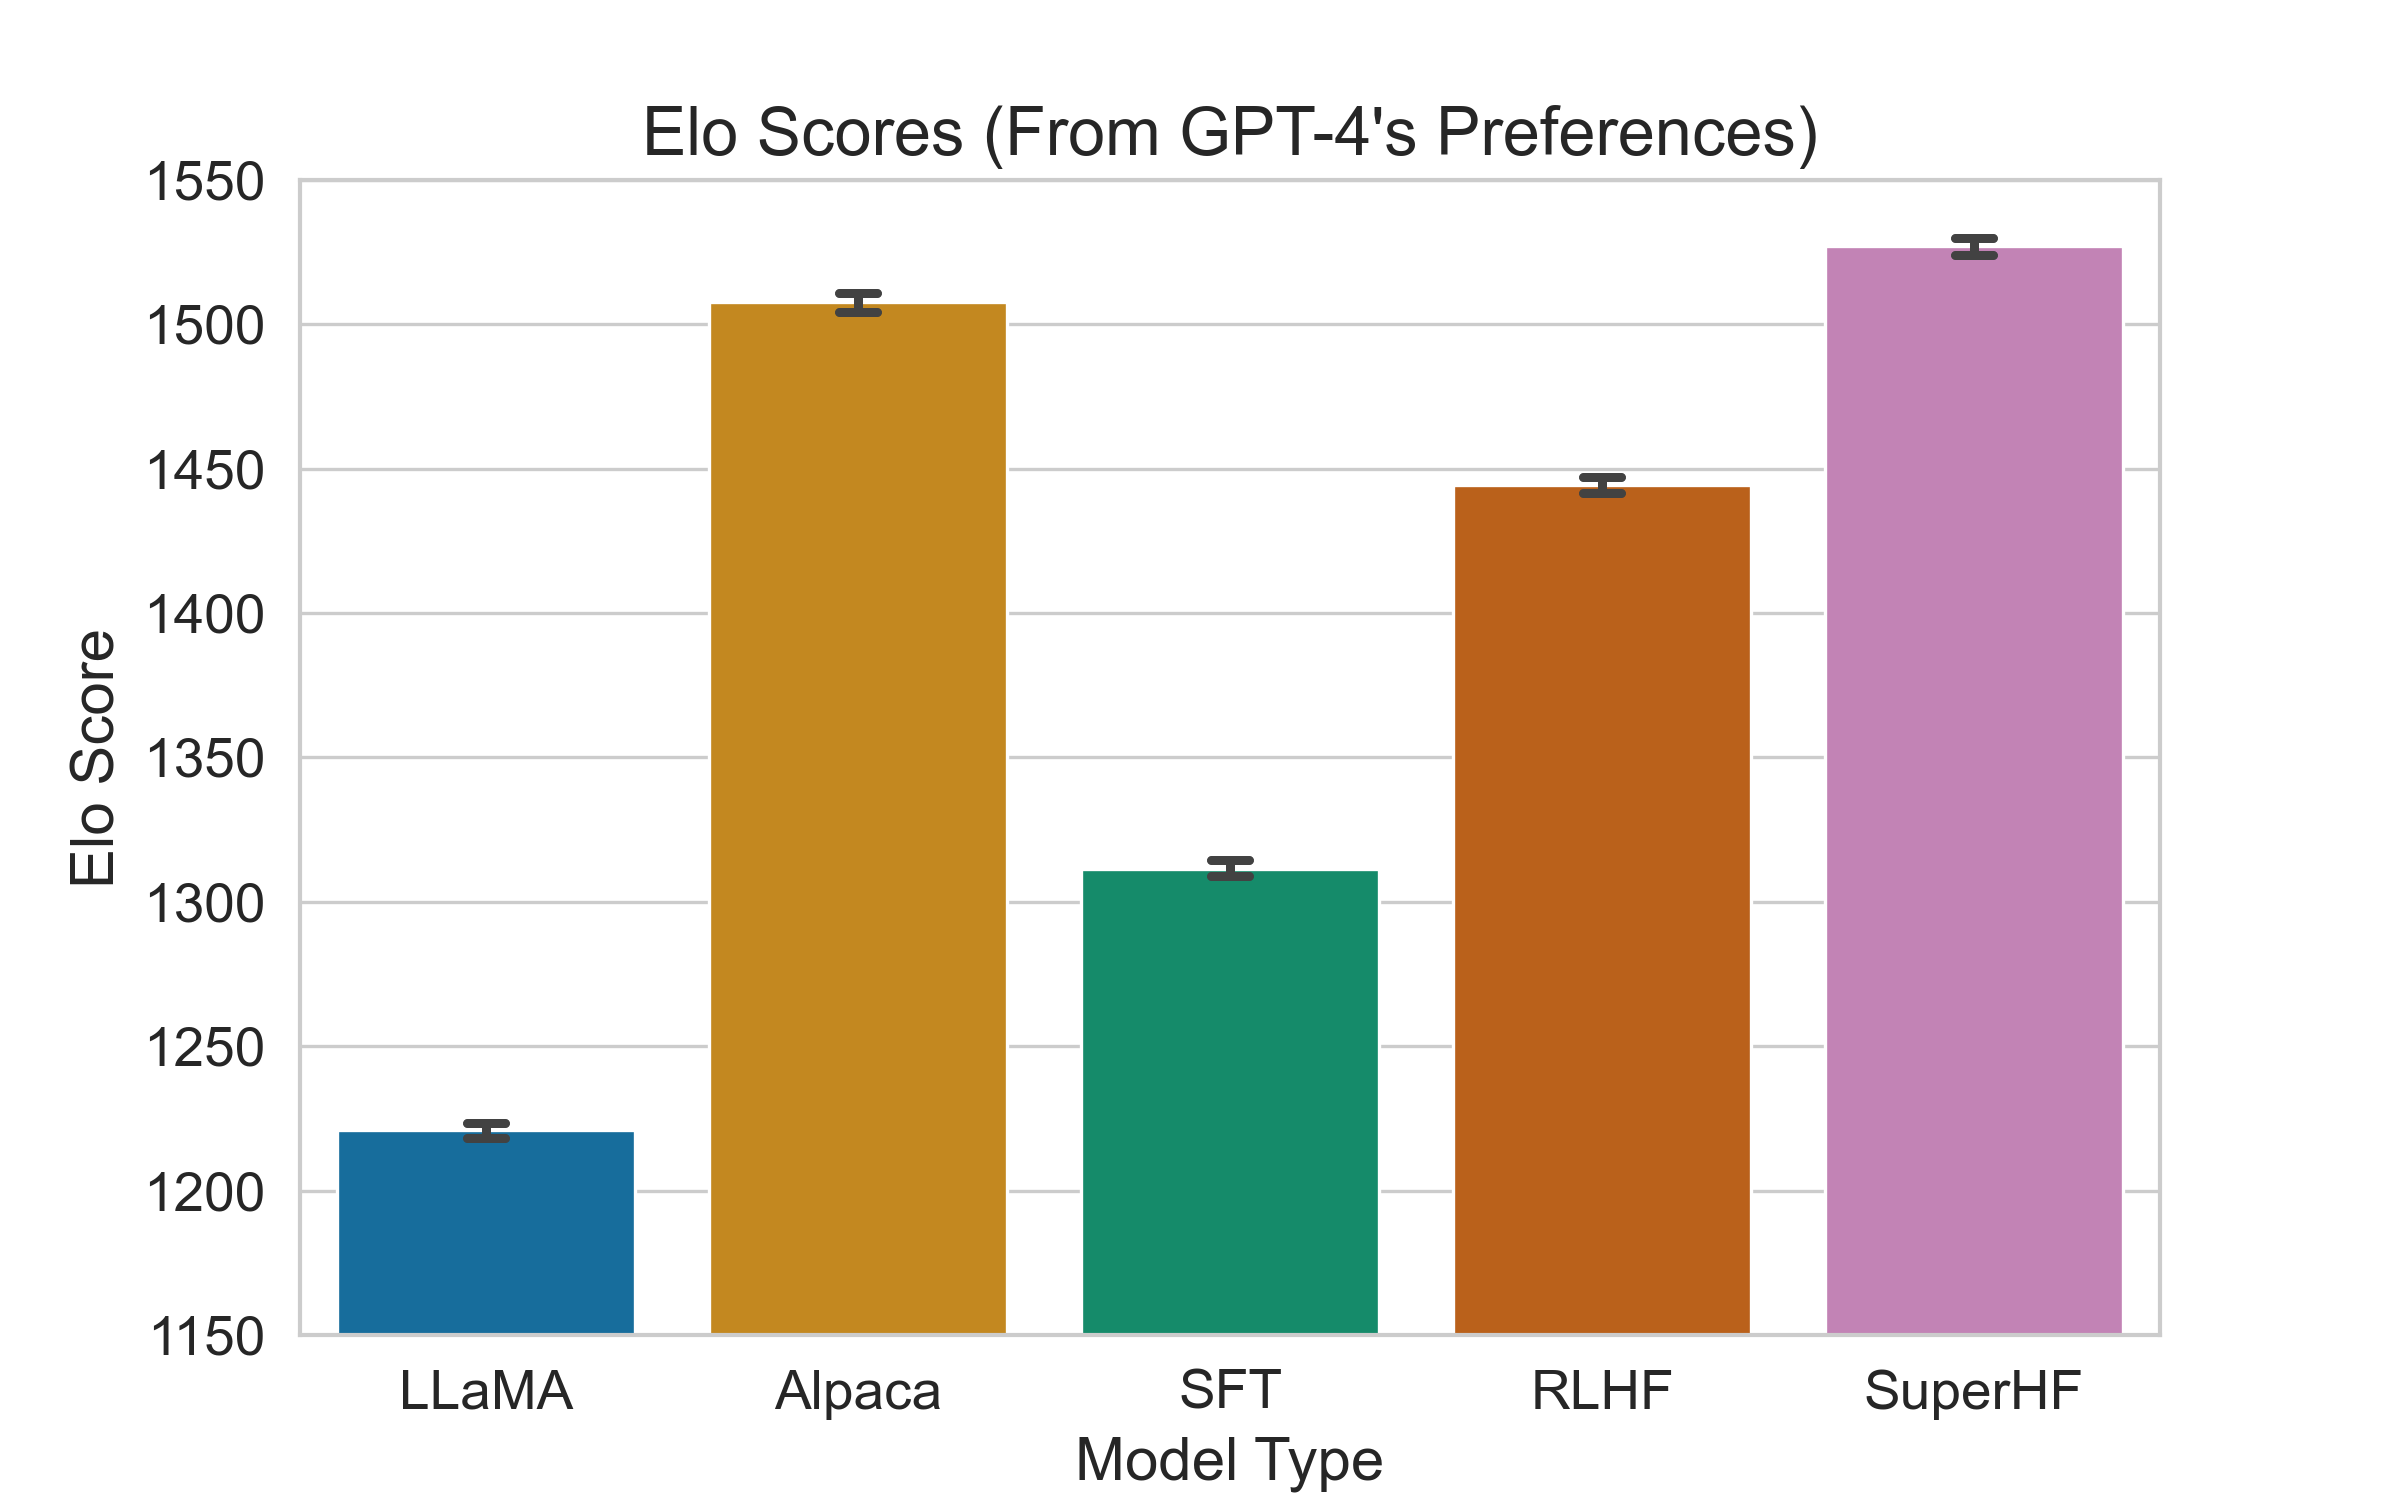
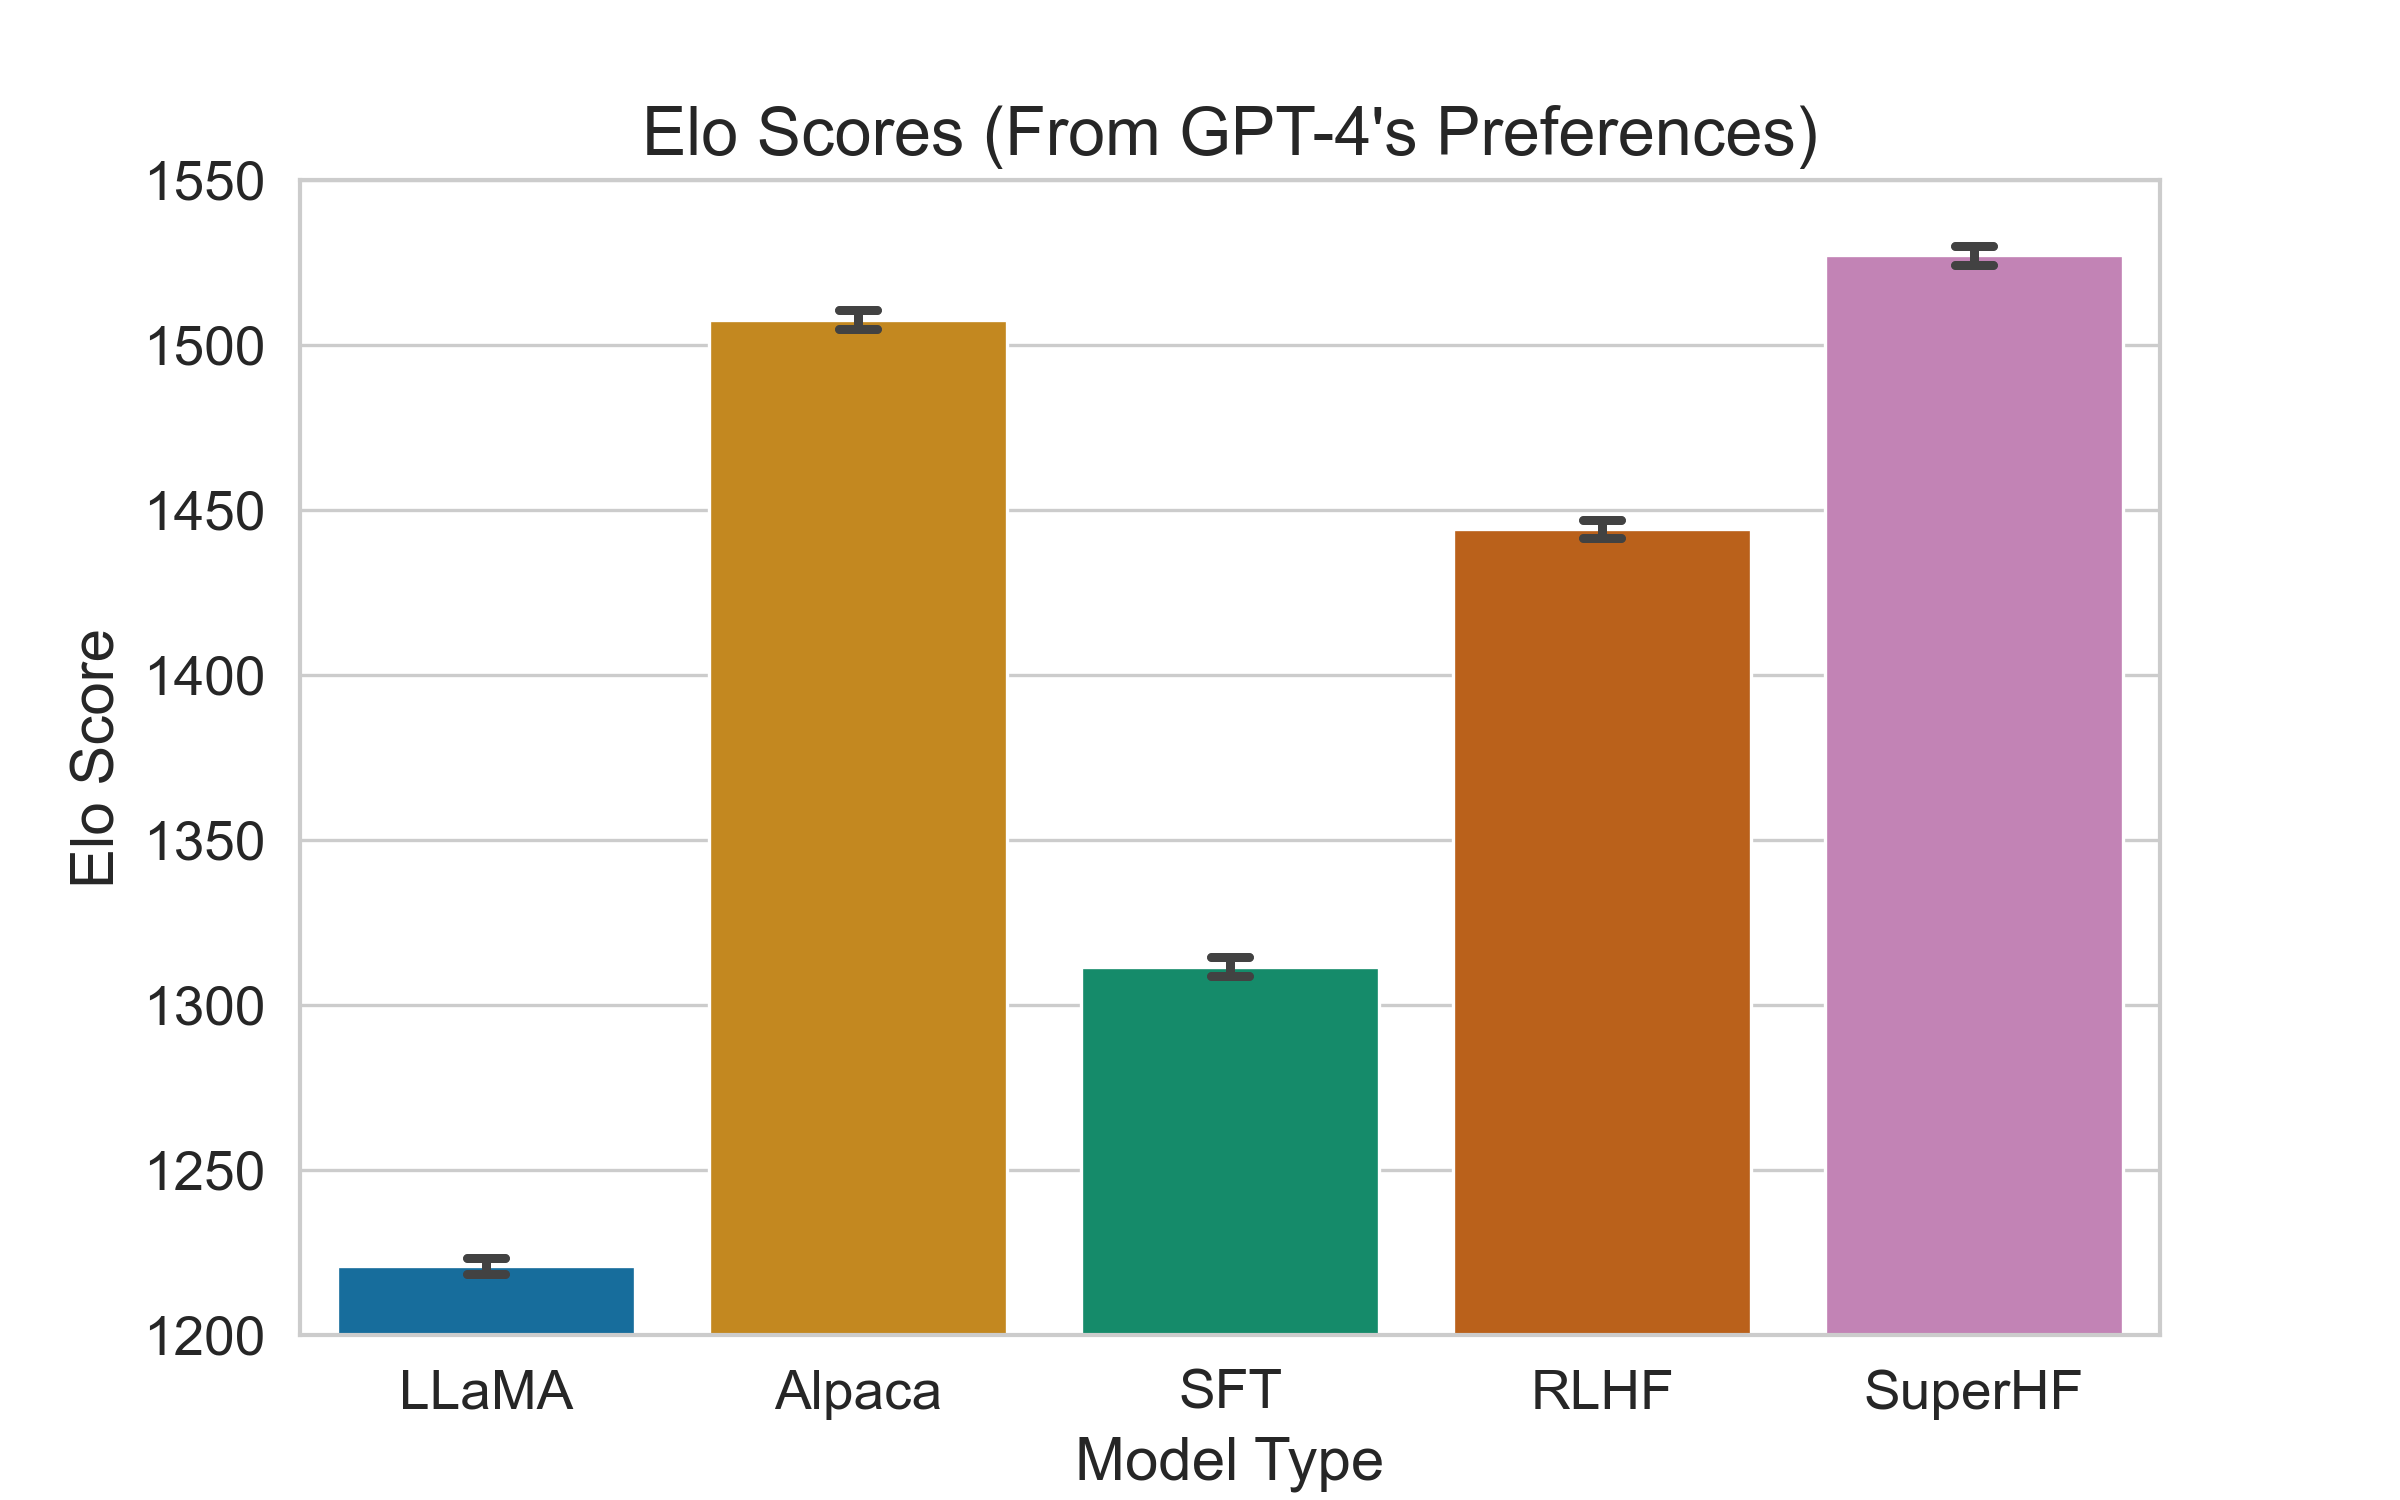
Generate more plots

diff --git a/charts/elo_scores.py b/charts/elo_scores.py
@@ -18,6 +18,7 @@ QUALITATIVE_MODEL_ORDER = QUALITATIVE_MODEL_ORDER[:-2]
 
 INPUT_FILE = "./eval_results/gpt4_qualitative/elo_scores.json"
 OUTPUT_FILE = "./charts/models/elo_scores.png"
+# OUTPUT_FILE = "./charts/models/elo_scores_all.png"
 
 
 def main() -> None:
@@ -40,7 +41,7 @@ def main() -> None:
 
     # Print out the average elo for each model
     for model_name in QUALITATIVE_MODEL_ORDER:
-        model_scores = dataframe[dataframe["Model"] == model_name]["Score"]
+        model_scores = dataframe[dataframe["Model"] == model_name]["Elo"]
         print(f"{model_name}: {model_scores.mean():.2f}")
 
     # Create the plot
@@ -56,7 +57,8 @@ def main() -> None:
     )
 
     # Set the y-axis limits
-    plt.ylim(1150, 1550)
+    plt.ylim(1200, 1550)
+    # plt.ylim(1200, 1800)
 
     # Set labels and title
     plt.xlabel("Model Type")

diff --git a/charts/qualitative_radar.py b/charts/qualitative_radar.py
@@ -39,6 +39,7 @@ def main() -> None:
         ("Relevance", "eval_results/gpt4_qualitative/relevance.jsonl"),
     ]
     tabular_data = {"group": QUALITATIVE_MODEL_ORDER}
+    # Manually add El
     for quality_name, file_path in named_files:
         data = load_data(file_path)
         # Drop rows where the rating isn't a 1-10 number

diff --git a/charts/plot_advanced_ai_risk_evals.py b/charts/plot_advanced_ai_risk_evals.py
@@ -44,7 +44,7 @@ order = [
 def main() -> None:
     """Main function."""
     initialize_plot()
-    plt.figure(figsize=(6, 12))
+    plt.figure(figsize=(8, 12))
 
     for model_name, data_path in model_names_and_paths:
         # Load the data
